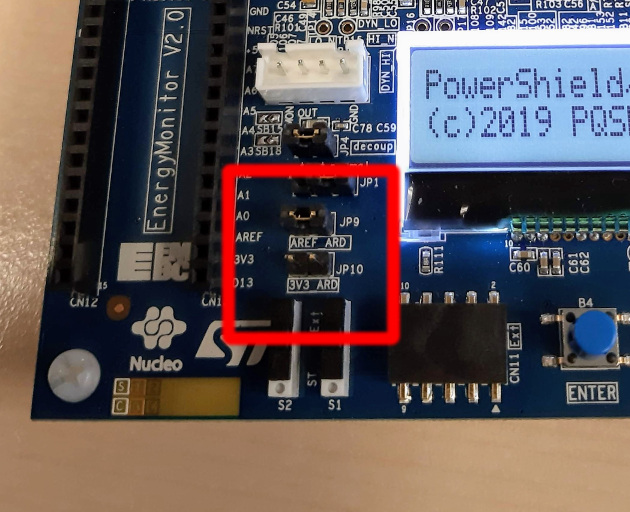
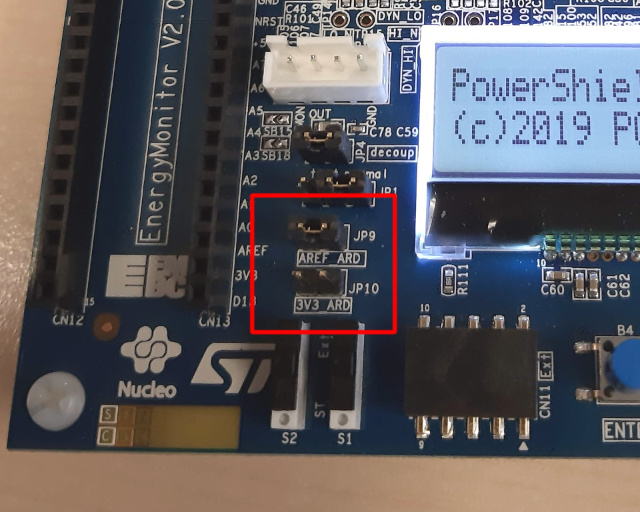
update

diff --git a/README.md b/README.md
@@ -86,7 +86,7 @@ I followed the instructions in section 1.2. "Quick setup to measure current
 on board Nucleo64" of UM2269. 
 
 
-| <img src="assets/pqps_jumpers.jpg" height="512"> | <img src="assets/idd_jumper.jpg" height="512"> |<img src="assets/sb12_solder.jpg" height="512">
+| <img src="assets/pqps_jumpers.jpg"  width="640" height="512"> | <img src="assets/idd_jumper.jpg"  width="640" height="512"> |<img src="assets/sb12_solder.jpg" width="640" height="512">
 |-----|-----|-----|
 | Jumpers on PowerShield | IDD Jumper on Nucleo64 | The SB12 Solder Bridge |
 
